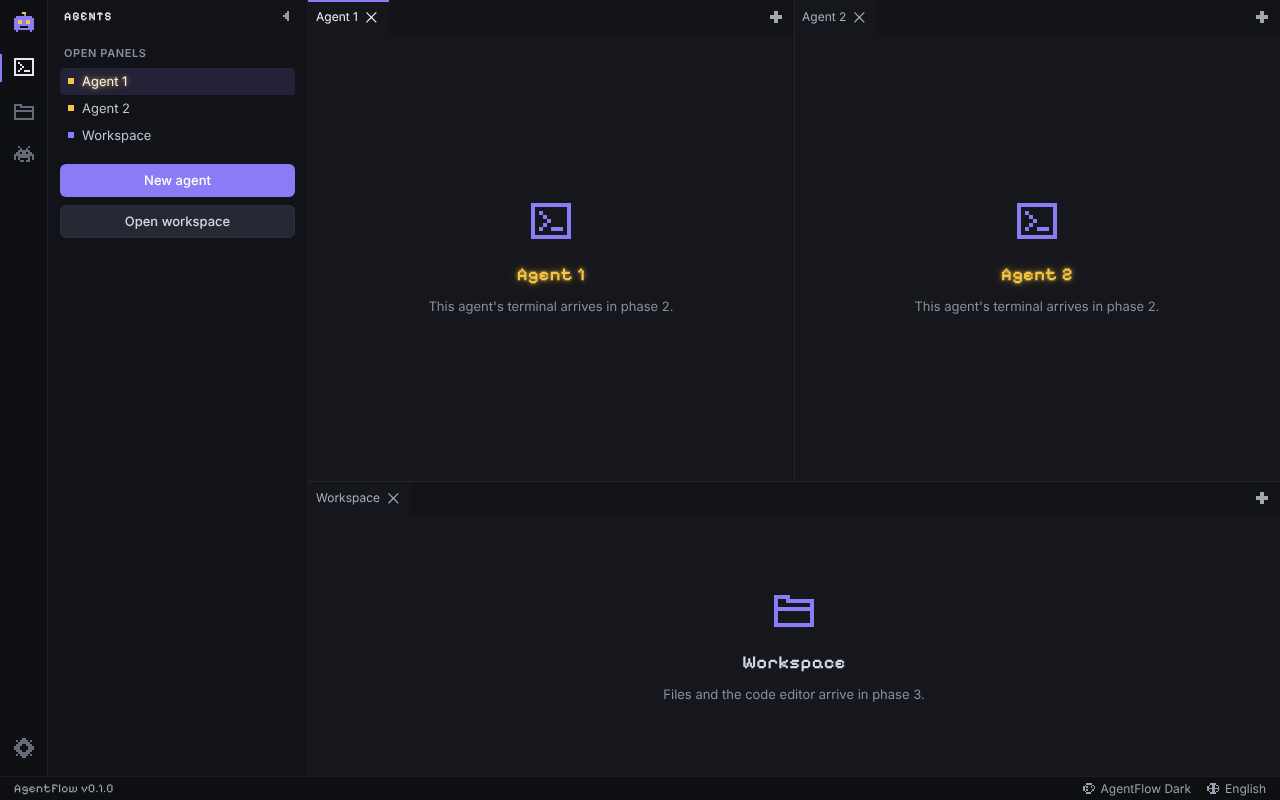
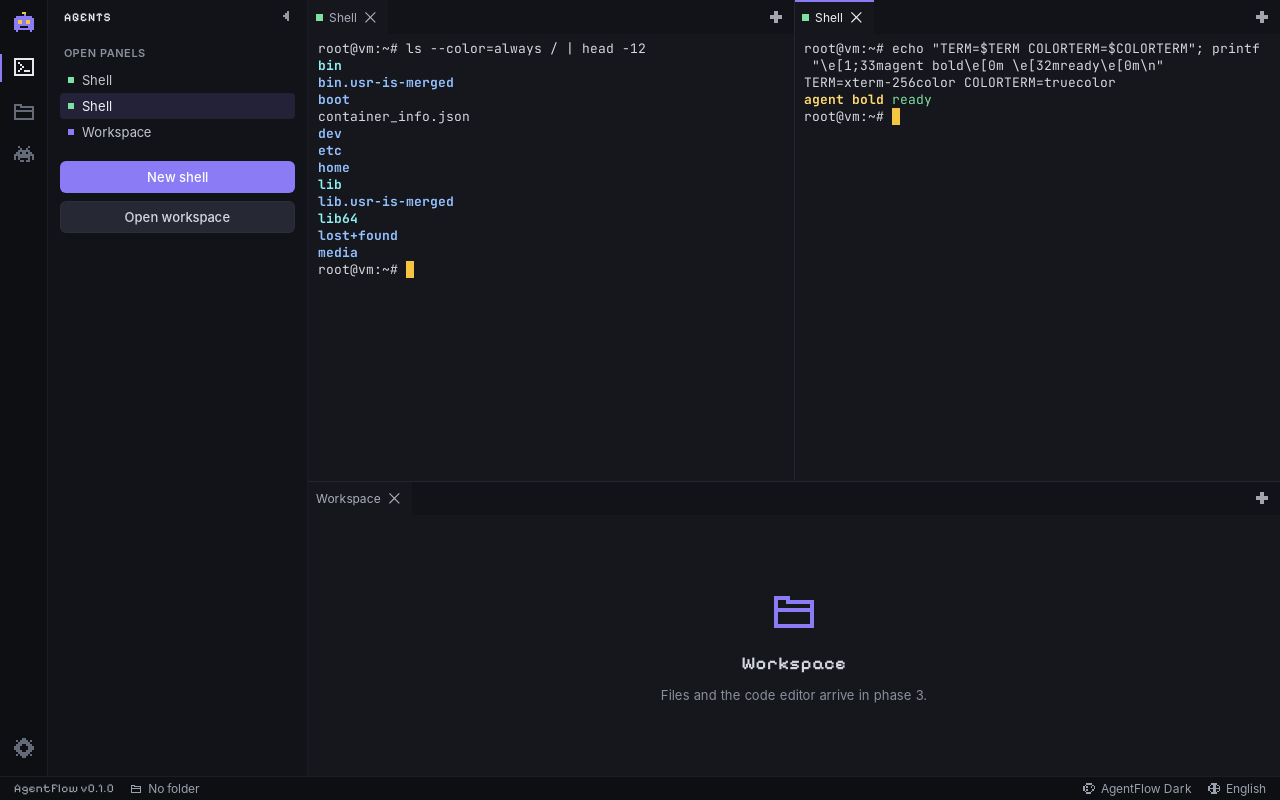
docs: mark phase 2 done, document the PTY/Channel pattern
- CLAUDE.md: phase 2 checked off; PTY/Channel pattern (channel created
  before invoke, raw coalesced bytes + final exit JSON, UTF-8 decoded in
  the frontend, kill/reap rules, ordered input queues, config-only
  persistence); folder map and layering rules for terminal/workspace
- README: status, features and roadmap updated; screenshot replaced
  with two real shell panels from the debug build

Claude-Session: https://claude.ai/code/session_018sA9Y4wRkNDR67pTEiD5Ny

diff --git a/CLAUDE.md b/CLAUDE.md
@@ -6,8 +6,9 @@ Linux. Priorities: **low RAM, fast, clean code organization, fun look.**
 
 ## Stack (fixed)
 
-- **Backend:** Tauri 2, Rust stable, tokio, serde/serde_json, thiserror, tracing
-- **Frontend:** SolidJS + TypeScript (strict) + Vite, pnpm
+- **Backend:** Tauri 2, Rust stable, tokio, serde/serde_json, thiserror, tracing,
+  portable-pty (terminals), which (PATH lookup), tauri-plugin-dialog (folder picker)
+- **Frontend:** SolidJS + TypeScript (strict) + Vite, pnpm, xterm.js (+ fit, webgl, unicode11)
 - **Layout:** `dockview-core` (vanilla) behind a thin Solid wrapper. Its stylesheet ships in the
   `dockview` package (a pure re-export of dockview-core); keep both pinned to the same version.
 - **Styling:** plain CSS with `--af-*` CSS variables. No React, Electron, Tailwind or UI kits.
@@ -22,24 +23,28 @@ src-tauri/src/
   settings/           versioned settings JSON in the OS app config dir (atomic write, migrations)
   themes/             built-in + imported VS Code themes: JSONC parsing, validation, storage
   commands/           thin #[tauri::command] fns that delegate to modules
-  util/               atomic_write, run_blocking, hex color check, test_dir (tests only)
-  pty/ fs/ providers/ tokens/ agents/   future phases (empty)
+  pty/                PtyManager, sessions (reader/waiter/pump threads), shells, CLI detection
+  util/               atomic_write, run_blocking, lock/Signal, hex color check, test_dir
+  fs/ providers/ tokens/ agents/   future phases (empty)
 src/
   main.tsx, App.tsx   entry: bootstrap (settings -> locale -> theme), then render
   app/                shell: ActivityBar, Sidebar (+ views), StatusBar, Toasts, styles/
-  features/layout/    dockview host, panel registry, renderers, layout persistence
+  features/layout/    dockview host, panel registry, renderers, tabs, layout persistence
+  features/terminal/  TerminalController (xterm + pty session), lazy TerminalPanel, stores
+  features/workspace/ current/recent workspace folder, folder picker
   features/theme/     VS Code -> --af-* mapping, user overrides, engine, theme store
   features/i18n/      typed t(), lazy locale loading, reportError()
   features/settings/  settings store (debounced save) + lazy SettingsPanel and sections
-  features/{terminal,files,characters,providers,tokens,agents}/   future (empty)
+  features/{files,characters,providers,tokens,agents}/   future (empty)
   shared/             ipc.ts, types.ts, errors.ts, toast.ts, debounce.ts, color.ts, ui/
   assets/fonts/       woff2 + fonts.css + OFL license files
   locales/            en.json (source of truth), tr, de, zh, ru
 themes/               built-in theme JSON (embedded into the Rust binary via include_str!)
 ```
 
-Layering: `shared/` imports nothing from `features/` or `app/`. Features may import `shared/`,
-`features/i18n` and `features/settings`. `app/` composes features.
+Layering: `shared/` imports nothing from `features/` or `app/`. Core features (`i18n`,
+`settings`, `theme`) never import panel features. Panel features (`terminal`, `workspace`) may
+import core features. `layout` and the settings panel compose panel features; `app/` composes all.
 
 ## Code rules
 
@@ -48,9 +53,9 @@ Layering: `shared/` imports nothing from `features/` or `app/`. Features may imp
   to the frontend and are shown as a toast via `reportError(contextKey, err)`.
 - All IPC goes through `src/shared/ipc.ts`; components never call `invoke` directly.
 - Minimal dependencies; justify every new crate/package in the commit message.
-- Performance: no polling (events, ResizeObserver, debounced saves), no heavy re-renders
-  (fine-grained signals, large blobs like the layout kept out of reactive stores), lazy-load
-  panels that are not visible at startup (settings panel, non-English locales).
+- Performance: no polling (events, ResizeObserver, debounced saves), fine-grained signals
+  (big blobs like the layout stay out of reactive stores), lazy-load heavy panels (settings,
+  terminal/xterm, non-English locales).
 - Rust file I/O in commands runs through `util::run_blocking`, never on the main thread.
 
 ## IPC pattern
@@ -61,32 +66,40 @@ Layering: `shared/` imports nothing from `features/` or `app/`. Features may imp
    wrapper on the `ipc` object. Mirror Rust structs in `shared/types.ts` (serde camelCase).
 3. Errors arrive as `AppError { kind, message }`; `toAppError()` normalizes anything thrown.
 
+## PTY / Channel pattern
+
+- Output never uses global events. `ipc.ptySpawn()` creates a `Channel` _before_ invoking
+  `pty_spawn`; Rust sends coalesced raw bytes (`InvokeResponseBody::Raw`, an `ArrayBuffer` in
+  JS, flushed after ~10 ms or 64 KB) and one final JSON `{ type: 'exit', code, signal }`.
+- Rust never decodes or splits UTF-8; the frontend's streaming `OutputDecoder` does.
+- When the session ends Rust drops the channel, which unregisters the JS callback. Kill on panel
+  close / `pty_kill` / app exit = SIGHUP (TerminateProcess on Windows), SIGKILL after 2 s; the
+  waiter thread always reaps the child, and the session removes itself from the map.
+- Input and resizes go through per-session queues (`queues.ts`) so IPC calls stay in order.
+- Persist terminal _config_ only (kind, command, args, cwd). Restored agent CLIs never
+  auto-start; restored shells follow `terminal.autoStartShells`.
+
 ## Theme conventions
 
-- Themes use the VS Code color theme format. Only `colors` is used; `tokenColors` is stored
-  on import and ignored until the editor phase.
-- `features/theme/mapping.ts` lists every `--af-*` variable: VS Code keys tried in order, then a
-  fallback (`ref` to an earlier variable, or a dark/light default). Add new UI colors there
-  and use `var(--af-…)` in CSS; never hard-code colors in components.
-- User overrides (text, accent, agent bold) are layered in `overrides.ts`. `.af-agent-bold`
-  uses `--af-bold-color` (default `#F5C542`) and `--af-glow`.
-- Built-in themes live in `themes/` and must pass `cargo test` (validation + core keys).
-- Imported themes are saved to `<app config>/themes/<slug>.json` with id `user:<slug>`.
+- VS Code color theme format; only `colors` is used (`tokenColors` kept for the editor phase).
+- `features/theme/mapping.ts` lists every `--af-*` variable (VS Code keys, then a `ref` or a
+  dark/light fallback). Add UI colors there; never hard-code colors in components.
+- Overrides (text, accent, agent bold: `--af-bold-color` default `#F5C542`, `--af-glow`) live in
+  `overrides.ts`. Built-in themes in `themes/` must pass `cargo test`; imports are saved as
+  `<app config>/themes/<slug>.json` with id `user:<slug>`.
 
 ## i18n conventions
 
-- Flat dotted keys in `src/locales/en.json`; `I18nKey = keyof typeof en`.
-- Every visible string goes through `t('key', { param })`; no literals in components
-  (brand name and language endonyms excepted).
-- Adding a key: add it to **all five** locale files. A missing key fails `pnpm typecheck`
-  (loaders are typed against `Dictionary`) and `pnpm test` checks keys and `{placeholders}`.
+- Flat dotted keys in `src/locales/en.json`; `I18nKey = keyof typeof en`. Every visible string
+  goes through `t('key', { param })` (brand name and language endonyms excepted).
+- New keys go into **all five** locales: a missing key fails `pnpm typecheck`, and `pnpm test`
+  checks keys and `{placeholders}`.
 
 ## Settings
 
-- Rust owns `settings.json` (`version` field + `migrate.rs` steps; bump `CURRENT_VERSION` and
-  add a step when the shape changes). Unknown/invalid values are repaired by `normalized()`;
-  a corrupt file is moved to `settings.json.corrupt` and defaults are used.
-- Frontend changes apply instantly via `updateSettings()` and are saved with a 300 ms debounce.
+Rust owns `settings.json`: bump `CURRENT_VERSION` and add a `migrate.rs` step when the shape
+changes; `normalized()` repairs bad values; a corrupt file goes to `settings.json.corrupt`.
+The frontend applies changes via `updateSettings()` and saves with a 300 ms debounce.
 
 ## Commands
 
@@ -94,17 +107,16 @@ Layering: `shared/` imports nothing from `features/` or `app/`. Features may imp
 pnpm install && pnpm tauri dev
 pnpm typecheck && pnpm test && pnpm build
 cd src-tauri && cargo fmt --check && cargo clippy --all-targets -- -D warnings && cargo test
-pnpm tauri build --debug
+cargo build    # in src-tauri: compile check without bundling
 ```
 
 ## Roadmap (9 phases)
 
 1. [x] Skeleton, theme engine, i18n, dockable layout (done)
-2. [ ] PTY + multi terminal panels (xterm.js WebGL, portable-pty)
+2. [x] PTY + multi terminal panels (xterm.js WebGL, portable-pty) (done)
 3. [ ] Workspace file tree (notify + ignore) + CodeMirror 6 viewer/editor
 4. [ ] Pixel character system (15 characters, 16x16 JSON sprites scaled, typewriter speech bar)
-5. [ ] AI providers (Claude Code/Codex/Gemini CLI + Anthropic/OpenAI/Gemini/DeepSeek/
-       OpenAI-compatible APIs, keys in OS keyring)
+5. [ ] AI providers (CLI agents + Anthropic/OpenAI/Gemini/DeepSeek/compatible APIs, keyring keys)
 6. [ ] Token & cost tracking
 7. [ ] Agent installer wizard (per-AI formats/paths)
 8. [ ] Community agent library from GitHub

diff --git a/README.md b/README.md
@@ -6,15 +6,15 @@ side in a VS Code-style dockable layout, watched over by cute pixel-art agent ch
 AgentFlow is a lightweight desktop app (Tauri 2 + Rust + SolidJS) for Windows, macOS and Linux.
 The goals are low RAM, a fast UI, a clean codebase, and a fun look.
 
-> **Status:** early development. Phase 1 of 9 (app shell, themes, languages, layout) is done.
-> Terminals and AI providers come in the next phases. See the [roadmap](#roadmap).
+> **Status:** early development. Phases 1–2 of 9 are done: app shell, themes, languages,
+> dockable layout, and real terminal panels. See the [roadmap](#roadmap).
 
 ![AgentFlow screenshot](docs/screenshot.png)
-<!-- Placeholder: phase 1 shell. Replace once terminals land in phase 2. -->
+<!-- Phase 2: two real shell panels (Linux, WebKitGTK). -->
 
 ## Features
 
-Available now (phase 1):
+Available now (phases 1–2):
 
 - VS Code-style shell: activity bar, resizable and collapsible sidebar, dock area, status bar
 - Dockable panels (split, tab, drag, close, re-open from **+**), and the layout persists across restarts
@@ -23,10 +23,14 @@ Available now (phase 1):
 - User overrides on top of any theme: text color, accent color, and the glowing "agent bold" style
 - Five languages, switchable live: English, Türkçe, Deutsch, 中文, Русский
 - Offline-first: fonts are bundled (JetBrains Mono, Pixelify Sans), no network needed
+- Terminal panels (xterm.js, WebGL when visible): your shell, Claude Code, Codex, Gemini CLI
+  or any custom command, each in its own dockable panel; agent CLIs missing from PATH are
+  shown as unavailable
+- Workspace folder: new terminals start there; recent folders in the status bar
+- Restored agent panels wait for you to press Start, so they never spend tokens on launch
 
 Planned:
 
-- Multiple agent terminals (xterm.js WebGL + native PTYs)
 - Workspace file tree and a CodeMirror 6 editor
 - 15 pixel characters with a typewriter speech bar
 - AI providers: Claude Code, Codex and Gemini CLIs, plus Anthropic, OpenAI, Gemini, DeepSeek and
@@ -114,6 +118,7 @@ cargo fmt --check
 cargo clippy --all-targets -- -D warnings
 cargo test              # backend unit tests
 cd ..
+cargo build             # compile check (in src-tauri)
 pnpm tauri build --debug  # full desktop build + installers
 ```
 
